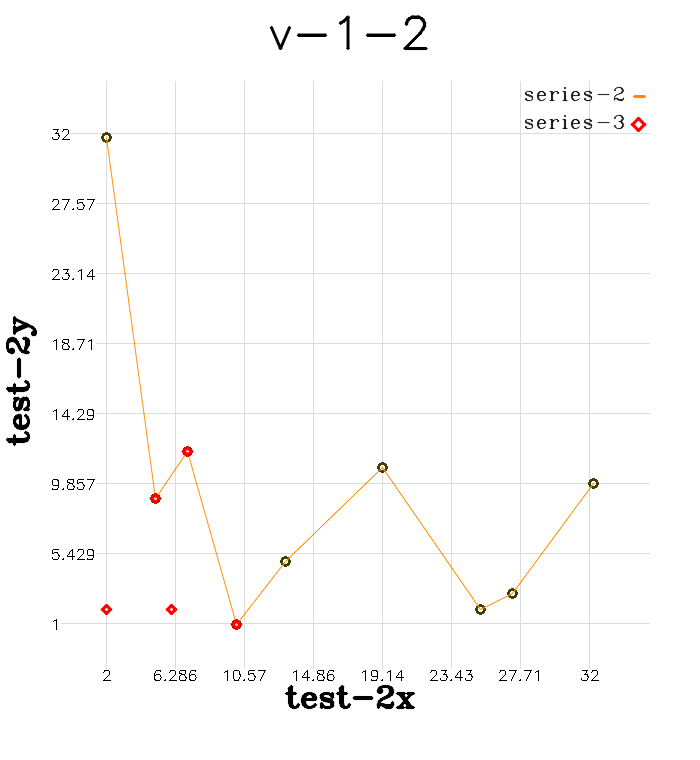
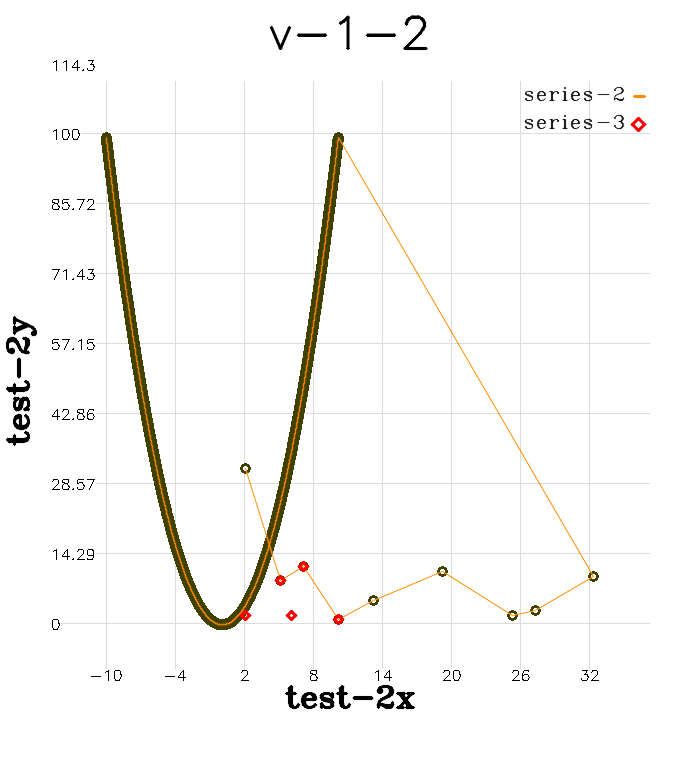
dump & load

diff --git a/src/cvplot.h b/src/cvplot.h
@@ -667,6 +667,100 @@ namespace cvplot
 			}
 		}
 
+		void Dump(const std::string filename)
+		{
+			FILE* fp = nullptr;
+			fopen_s(&fp, filename.c_str(), "w");
+			if (fp)
+			{
+				fprintf_s(fp, "%s\n", label_.c_str());
+				fprintf_s(fp, "%d\n", chart_type_);
+				fprintf_s(fp, "%d\n", marker_type_);
+				fprintf_s(fp, "%d %d\n", marker_size_.width, marker_size_.height);
+				fprintf_s(fp, "%d\n", dimension_);
+				fprintf_s(fp, "%d\n", enable_legend_ ? 1 : 0);
+				auto vec4 = render_color_.ToVec4b(); //BGRA
+				fprintf_s(fp, "%d %d %d %d\n", vec4[0], vec4[1], vec4[2], vec4[3]);
+				for (auto v : maxs_)
+				{
+					fprintf_s(fp, "%lf ", v);
+				}
+				for (auto v : mins_)
+				{
+					fprintf_s(fp, "%lf ", v);
+				}
+				int n = values_.size();
+				fprintf_s(fp, "\n%d\n", n);
+				int counter = 0;
+				for (auto v : values_)
+				{
+					fprintf_s(fp, "%lf ", v);
+					if (++counter % 32 == 0)
+					{
+						fprintf_s(fp, "\n");
+					}
+				}
+				fprintf_s(fp, "\n");
+			}
+			fclose(fp);
+		}
+
+		Series& Load(const std::string filename)
+		{
+			FILE* fp = nullptr;
+			fopen_s(&fp, filename.c_str(), "r");
+			if (fp == nullptr)
+			{
+				throw std::exception("failed to load series");
+			}
+
+			const int LEN = 256;
+			char sz[LEN] = { 0 };
+			fscanf_s(fp, "%s\n", sz, LEN);
+			label_ = sz;
+			fscanf_s(fp, "%d\n", &chart_type_);
+			fscanf_s(fp, "%d\n", &marker_type_);
+			fscanf_s(fp, "%d %d\n", &(marker_size_.width), &(marker_size_.height));
+			fscanf_s(fp, "%d\n", &dimension_);
+			int enable;
+			fscanf_s(fp, "%d\n", &enable);
+			enable_legend_ = enable > 0;
+			int b, g, r, a;
+			fscanf_s(fp, "%d %d %d %d\n", &b, &g, &r, &a);
+			auto color = Color(r, g, b, a);
+			render_color_ = color;
+			maxs_.resize(dimension_);
+			mins_.resize(dimension_);
+			for (int i = 0; i < dimension_; ++i)
+			{
+				double v;
+				fscanf_s(fp, "%lf", &v);
+				maxs_[i] = v;
+			}
+			for (int i = 0; i < dimension_; ++i)
+			{
+				double v;
+				fscanf_s(fp, "%lf", &v);
+				mins_[i] = v;
+			}
+			int n;
+			fscanf_s(fp, "%d\n", &n);
+			if (n > 0)
+			{
+				values_.resize(n);
+				for (int i = 0; i < n; ++i)
+				{
+					double v;
+					fscanf_s(fp, "%lf", &v);
+					values_[i] = v;
+				}
+			}
+
+			fclose(fp);
+
+			return *this;
+		}
+
     private:
 		void DrawMarkers_(cv::Mat target, std::vector<cv::Point> pts, marker::Type type, Color color, int size, int thickness)
 		{
@@ -1266,8 +1360,93 @@ namespace cvplot
 			return buffer_.clone();
 		}
 
+		void Dump(const std::string& prefix)
+		{
+			FILE* fp = nullptr;
+			fopen_s(&fp, (prefix + ".000000000.vdp").c_str(), "w");
+			if (fp)
+			{
+				fprintf_s(fp, "%s\n", title_.c_str());
+				fprintf_s(fp, "%d %d\n", size_.width, size_.height);
+				fprintf_s(fp, "%s\n", xlabel_.c_str());
+				fprintf_s(fp, "%s\n", ylabel_.c_str());
+				auto vec4 = background_color_.ToVec4b();
+				fprintf_s(fp, "%d %d %d %d\n", vec4[0], vec4[1], vec4[2], vec4[3]);
+				vec4 = text_color_.ToVec4b();
+				fprintf_s(fp, "%d %d %d %d\n", vec4[0], vec4[1], vec4[2], vec4[3]);
+				vec4 = grid_color_.ToVec4b();
+				fprintf_s(fp, "%d %d %d %d\n", vec4[0], vec4[1], vec4[2], vec4[3]);
+				fprintf_s(fp, "%d\n", enable_grid_ ? 1 : 0);
+				fprintf_s(fp, "%d %d\n", horizontal_margin_, vertical_margin_);
+				int n = series_map_.size();
+				fprintf_s(fp, "%d\n", n);
+				int index = 0;
+				for (auto s : series_map_)
+				{
+					char sz[32] = { 0 };
+					sprintf_s(sz, ".%09d.sdp", ++index);
+					auto filename = prefix + sz;
+					s.second.Dump(filename);
+					fprintf_s(fp, "%s\n", filename.c_str());
+				}
+				fclose(fp);
+			}
+		}
+
+		View& Load(const std::string prefix)
+		{
+			FILE* fp = nullptr;
+			fopen_s(&fp, (prefix + ".000000000.vdp").c_str(), "r");
+			if (fp)
+			{
+				const int LEN = 256;
+				char sz[LEN] = { 0 };
+				fscanf_s(fp, "%s\n", sz, LEN);
+				title_ = sz;
+				int w;
+				int h;
+				fscanf_s(fp, "%d %d\n", &w, &h);
+				SetSize({ w,h });
+				char sz1[LEN] = { 0 };
+				fscanf_s(fp, "%s\n", sz1, LEN);
+				xlabel_ = sz1;
+				char sz2[LEN] = { 0 };
+				fscanf_s(fp, "%s\n", sz2, LEN);
+				ylabel_ = sz2;
+				int r, g, b, a;
+				fscanf_s(fp, "%d %d %d %d\n", &b, &g, &r, &a);
+				auto color1 = Color(r, g, b, a);
+				background_color_ = color1;
+				fscanf_s(fp, "%d %d %d %d\n", &b, &g, &r, &a);
+				auto color2 = Color(r, g, b, a);
+				text_color_ = color2;
+				fscanf_s(fp, "%d %d %d %d\n", &b, &g, &r, &a);
+				auto color3 = Color(r, g, b, a);
+				grid_color_ = color3;
+				int enable;
+				fscanf_s(fp, "%d\n", &enable);
+				enable_grid_ = enable > 0;
+				fscanf_s(fp, "%d %d\n", &horizontal_margin_, &vertical_margin_);
+				int n;
+				fscanf_s(fp, "%d\n", &n);
+				Clear();
+				for (int i = 0; i < n; ++i)
+				{
+					char szf[LEN] = { 0 };
+					fscanf_s(fp, "%s\n", szf, LEN);
+					Series s("", chart::Line);
+					s.Load(szf);
+					AddSeries(s);
+				}
+				fclose(fp);
+				return *this;
+			}
+
+			throw std::exception("failed to load view");
+		}
+
 	private:
-		static double CalcSnap(double value)
+		static double CalcSnap_(double value)
 		{
 			auto v1 = pow(10, floor(log10(value)));
 			auto v2 = pow(10, floor(log10(value / 2))) * 2;
@@ -1409,6 +1588,68 @@ namespace cvplot
 			{
 
 			}
+		}
+
+		void Dump(const std::string& folder, const std::string alias)
+		{
+			FILE* fp = nullptr;
+			fopen_s(&fp, (folder + alias + ".00000000000000.fdp").c_str(), "w");
+			if (fp)
+			{
+				fprintf_s(fp, "%s\n", figure_name_.c_str());
+				fprintf_s(fp, "%d %d\n", vertical_count_, horizontal_count_);
+				fprintf_s(fp, "%d %d\n", figure_size_.width, figure_size_.height);
+				fprintf_s(fp, "%d %d\n", horizontal_margin_, vertical_margin_);
+				for (int i = 1; i <= vertical_count_; ++i)
+				{
+					for (int j = 1; j <= horizontal_count_; ++j)
+					{
+						auto v = SelectView(i, j);
+						char sz[32] = { 0 };
+						sprintf_s(sz, ".%02d-%02d", i, j);
+						auto prefix = folder + alias + sz;
+						v.Dump(prefix);
+						fprintf_s(fp, "%s\n", prefix.c_str());
+					}
+				}
+				fclose(fp);
+			}
+		}
+
+		void Load(const std::string& folder, const std::string alias)
+		{
+			FILE* fp = nullptr;
+			fopen_s(&fp, (folder + alias + ".00000000000000.fdp").c_str(), "r");
+			if (fp == nullptr)
+			{
+				throw std::exception("load figure failed");
+			}
+
+			const int LEN = 256;
+			char sz[LEN] = { 0 };
+			fscanf_s(fp, "%s\n", sz, LEN);
+			figure_name_ = sz;
+			int rows;
+			int cols;
+			fscanf_s(fp, "%d %d\n", &rows, &cols);
+			SetLayout(rows, cols);
+			fscanf_s(fp, "%d %d\n", &cols, &rows);
+			SetSize({ cols,rows });
+			fscanf_s(fp, "%d %d\n", &horizontal_margin_, &vertical_margin_);
+			for (int i = 1; i <= vertical_count_; ++i)
+			{
+				for (int j = 1; j <= horizontal_count_; ++j)
+				{
+					View v;
+					char sz[32] = { 0 };
+					sprintf_s(sz, ".%02d-%02d", i, j);
+					auto prefix = folder + alias + sz;
+					v.Load(prefix);
+					SetView(v, i, j);
+					SelectView(i, j).Invalidate();
+				}
+			}
+			fclose(fp);
 		}
 
 	private:

diff --git a/src/demo.cpp b/src/demo.cpp
@@ -20,6 +20,14 @@ int main()
 		.SetRenderColor(cvplot::color::DarkOrange)
 		.AddValues({ 2,32,5,9,7,12,10,1,13,5,19,11,25,2,27,3,32,10 });
 
+	const int N = 100000;
+	for (int i = 0; i < N; ++i)
+	{
+		auto x = 20.0 * (N / 2 - i + 1) / N;
+		auto y = x * x;
+		s2.AddValues({ x,y });
+	}
+
 	auto s3 = cvplot::Series("series-3", cvplot::chart::Scatter, cvplot::marker::Diamond)
 		.SetRenderColor(cvplot::color::Red)
 		.AddValues({ 2,2,5,9,7,12,10,1 })
@@ -62,6 +70,12 @@ int main()
 		.SetView(v2, 1, 2)
 		.SetView(v3, 1, 3);
 
-	f.Show();
-	f.Save("figure.png");
+	//f.Show();
+	//f.Save("figure.png");
+	f.Dump("dump\\", "fig1");
+
+	cvplot::Figure f2;
+	f2.Load("dump\\", "fig1");
+	f2.Show();
+	f2.Save("figure.png", true);
 }
